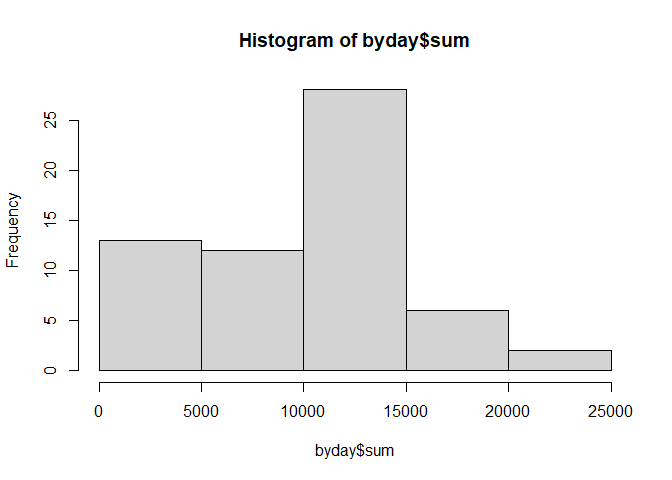
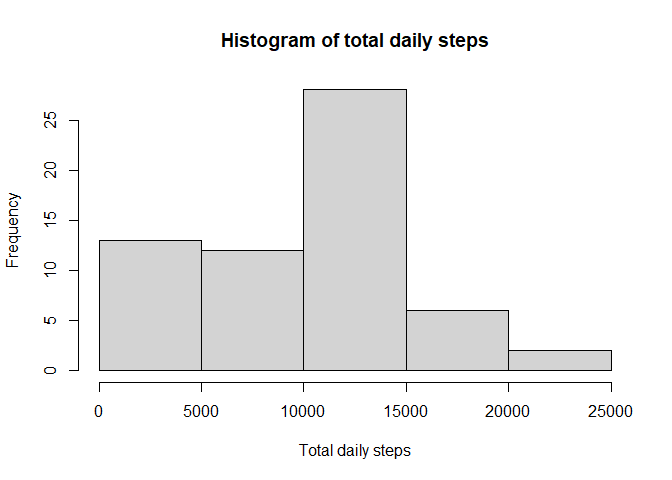
Edits for clarity

Changed region(s): [[0.3125, 0.0625, 0.75, 0.125], [0.4375, 0.9062, 0.625, 0.9688]]

diff --git a/PA1.html b/PA1.html
@@ -393,8 +393,8 @@ byday &lt;- data %&gt;%
   group_by(date) %&gt;%
   summarize(&quot;sum&quot; = sum(steps, na.rm =TRUE))</code></pre>
 <pre><code>## `summarise()` ungrouping output (override with `.groups` argument)</code></pre>
-<pre class="r"><code>hist(byday$sum)</code></pre>
[1 lines of base64/hex data omitted]
+<pre class="r"><code>hist(byday$sum, main = &quot;Histogram of total daily steps&quot;, xlab = &quot;Total daily steps&quot;)</code></pre>
[1 lines of base64/hex data omitted]
 <pre class="r"><code>median(byday$sum)</code></pre>
 <pre><code>## [1] 10395</code></pre>
 <pre class="r"><code>mean(byday$sum)</code></pre>
@@ -402,7 +402,7 @@ byday &lt;- data %&gt;%
 </div>
 <div id="what-is-the-average-daily-activity-pattern" class="section level2">
 <h2>What is the average daily activity pattern?</h2>
-<p>The average daily pattern shows very low steps between 0 and the 500th interval then a rise to around 50 steps per interval with a peak at the 835 interval. After this peak, steps hover between 50 and 100 sets per interval until</p>
+<p>The average daily pattern shows very low steps between 0 and the 500th interval then a rise to around 50 steps per interval with a maximum of 206 steps at the 835th interval. After this peak, steps hover between 50 and 100 sets per interval until they decline around 1900.</p>
 <pre class="r"><code>averageday &lt;- data %&gt;%
   group_by(interval) %&gt;%
   summarize(&quot;average&quot; = mean(steps, na.rm = TRUE))</code></pre>
@@ -419,7 +419,7 @@ maxinterval</code></pre>
 </div>
 <div id="imputing-missing-values" class="section level2">
 <h2>Imputing missing values</h2>
-<p>Here we will impute the missing values using the average steps for each interval.</p>
+<p>Here I impute the missing values using the average steps for each interval.</p>
 <pre class="r"><code>  ##check how many there are
   sum(is.na(data$steps))</code></pre>
 <pre><code>## [1] 2304</code></pre>
@@ -431,13 +431,13 @@ maxinterval</code></pre>
     data$impute &lt;- ifelse(is.na(data2$steps), data2$average, data2$steps)
     data3 &lt;- select(data,impute,date,interval)
     data3&lt;-rename(data3, steps = impute)</code></pre>
-<p>##Redo of histogram using data without NAs</p>
+<p>##Redo of daily steps histogram using imputed data</p>
 <pre class="r"><code> byday2 &lt;- data3 %&gt;%
     group_by(date) %&gt;%
     summarize(&quot;sum&quot; = sum(steps))</code></pre>
 <pre><code>## `summarise()` ungrouping output (override with `.groups` argument)</code></pre>
-<pre class="r"><code>  hist(byday2$sum)</code></pre>
[1 lines of base64/hex data omitted]
+<pre class="r"><code>  hist(byday2$sum, main = &quot;Histogram of total daily steps (imputed)&quot;, xlab = &quot;Total Daily Steps&quot;)</code></pre>
[1 lines of base64/hex data omitted]
 <pre class="r"><code>median(data3$sum)</code></pre>
 <pre><code>## Warning: Unknown or uninitialised column: `sum`.</code></pre>
 <pre><code>## NULL</code></pre>
@@ -449,8 +449,7 @@ maxinterval</code></pre>
 </div>
 <div id="are-there-differences-in-activity-patterns-between-weekdays-and-weekends" class="section level2">
 <h2>Are there differences in activity patterns between weekdays and weekends?</h2>
-<div id="weekends-do-show-different-activity-patterns-compared-to-week-days.-the-peak-is-still-around-the-same-interval-800---900-but-it-ramps-up-a-little-more-slowly-and-activity-remains-higher-thoughtout-the-day." class="section level3">
-<h3>Weekends do show different activity patterns compared to week days. The peak is still around the same interval 800 - 900, but it ramps up a little more slowly and activity remains higher thoughtout the day.</h3>
+<p>Weekends do show different activity patterns compared to week days. The peak is still around the same interval 800 - 900, but it ramps up a little more slowly and activity remains higher thoughtout the day.</p>
 <pre class="r"><code>library(ggplot2)
 data3$day &lt;- ifelse(weekdays(data3$date) %in% c(&quot;sábado&quot;, &quot;domingo&quot;), &quot;Weekend&quot;, &quot;Weekday&quot;)
   
@@ -461,7 +460,6 @@ data3$day &lt;- ifelse(weekdays(data3$date) %in% c(&quot;sábado&quot;, &quot;do
 <pre class="r"><code>  qplot(interval, average, data = averagewds, facets = .~averagewds$day, 
         main = &quot;weekends and weekdays&quot;, xlab = &quot;x&quot;, ylab = &quot;y&quot;, geom = &quot;line&quot;)</code></pre>
[1 lines of base64/hex data omitted]
-</div>
 </div>
 
 

diff --git a/PA1.md b/PA1.md
@@ -55,7 +55,7 @@ byday <- data %>%
 ```
 
 ```r
-hist(byday$sum)
+hist(byday$sum, main = "Histogram of total daily steps", xlab = "Total daily steps")
 ```
 
 ![](PA1_files/figure-html/unnamed-chunk-2-1.png)<!-- -->
@@ -77,7 +77,7 @@ mean(byday$sum)
 ```
 
 ## What is the average daily activity pattern?
-The average daily pattern shows very low steps between 0 and the 500th interval then a rise to around 50 steps per interval with a peak at the 835 interval. After this peak, steps hover between 50 and 100 sets per interval until 
+The average daily pattern shows very low steps between 0 and the 500th interval then a rise to around 50 steps per interval with a maximum of 206 steps at the 835th interval. After this peak, steps hover between 50 and 100 sets per interval until they decline around 1900. 
 
 ```r
 averageday <- data %>%
@@ -109,7 +109,7 @@ maxinterval
 ```
 
 ## Imputing missing values
-Here we will impute the missing values using the average steps for each interval.
+Here I impute the missing values using the average steps for each interval.
 
 
 ```r
@@ -137,7 +137,7 @@ Here we will impute the missing values using the average steps for each interval
     data3 <- select(data,impute,date,interval)
     data3<-rename(data3, steps = impute)
 ```
-##Redo of histogram using data without NAs
+##Redo of daily steps histogram using imputed data
 
 ```r
  byday2 <- data3 %>%
@@ -150,7 +150,7 @@ Here we will impute the missing values using the average steps for each interval
 ```
 
 ```r
-  hist(byday2$sum)
+  hist(byday2$sum, main = "Histogram of total daily steps (imputed)", xlab = "Total Daily Steps")
 ```
 
 ![](PA1_files/figure-html/unnamed-chunk-5-1.png)<!-- -->
@@ -187,7 +187,7 @@ mean(data3$sum)
 
 ## Are there differences in activity patterns between weekdays and weekends?
 
-### Weekends do show different activity patterns compared to week days. The peak is still around the same interval 800 - 900, but it ramps up a little more slowly and activity remains higher thoughtout the day. 
+Weekends do show different activity patterns compared to week days. The peak is still around the same interval 800 - 900, but it ramps up a little more slowly and activity remains higher thoughtout the day. 
 
 ```r
 library(ggplot2)
